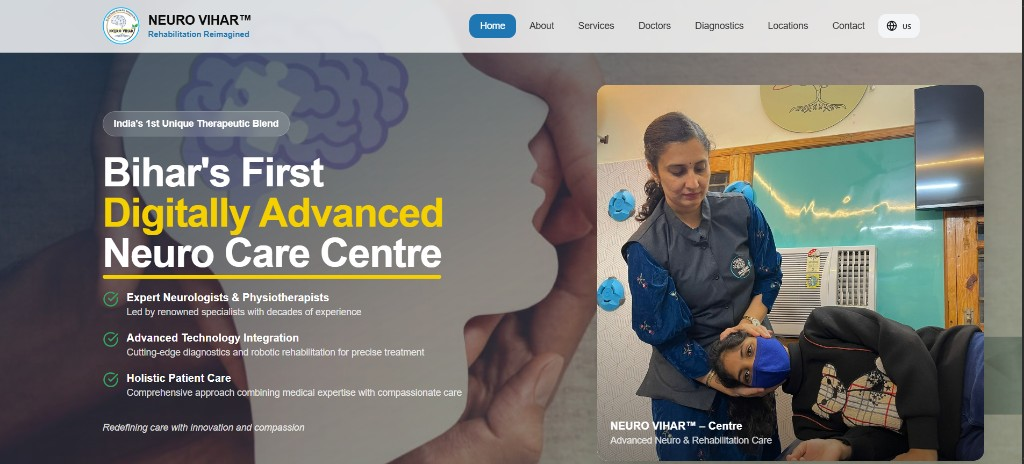
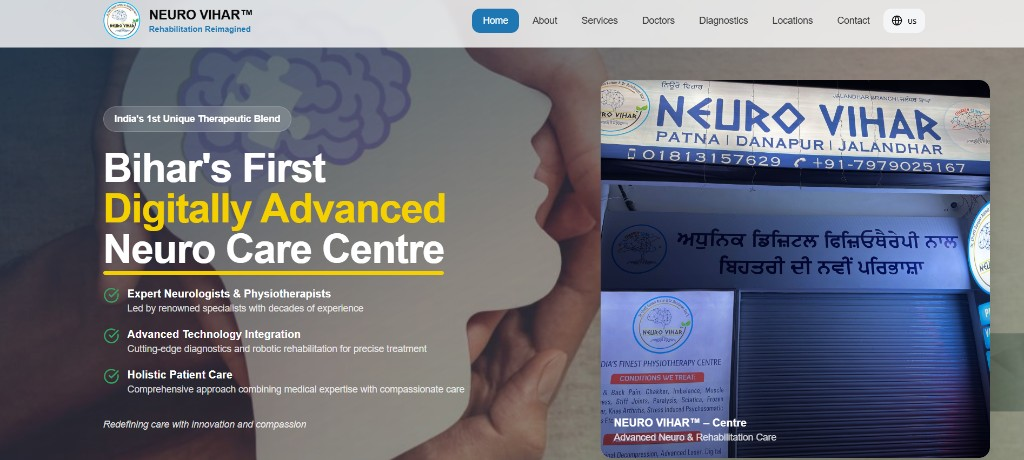
test

diff --git a/src/pages/Experience.tsx b/src/pages/Experience.tsx
@@ -8,10 +8,67 @@ import {
 import { Card } from "@/components/ui/card";
 import { Badge } from "@/components/ui/badge";
 
+type KeyProject = {
+  name: string;
+  description: string;
+  impact: string;
+  url?: string;
+};
+
 const Experience = () => {
-  const experiences = [
+  const experiences: Array<{
+    id: number;
+    company: string;
+    role: string;
+    location: string;
+    period: string;
+    type: string;
+    description: string;
+    projects: KeyProject[];
+    technologies: string[];
+    achievements: string[];
+  }> = [
     {
       id: 1,
+      company: "Travelodeal Holidays",
+      role: "Software Engineer",
+      location: "India",
+      period: "Oct 15, 2025 - Present",
+      type: "Current",
+      description:
+        "Building and evolving cloud-hosted travel and holiday products end to end: performant frontends, scalable APIs, and reliable deployments across AWS and modern DevOps workflows.",
+      projects: [
+        {
+          name: "Travelodeal UK (travel & holidays platform)",
+          description:
+            "UK travel-domain product: holiday search, offers, and customer journeys for a live production site serving the travel market.",
+          impact:
+            "Core product development on a high-visibility travel platform with full-stack and cloud delivery",
+          url: "https://www.travelodeal.co.uk/",
+        },
+      ],
+      technologies: [
+        "React",
+        "Next.js",
+        "Node.js",
+        "Express.js",
+        "TypeScript",
+        "REST APIs",
+        "AWS",
+        "Cloud",
+        "DevOps",
+        "Docker",
+        "CI/CD",
+        "Git",
+      ],
+      achievements: [
+        "Delivered features across full stack using React, Next.js, Node, and Express",
+        "Operated and improved cloud workloads on AWS with DevOps and automation focus",
+        "Collaborated on scalable architecture, APIs, and production reliability",
+      ],
+    },
+    {
+      id: 2,
       company: "200Ok Solutions",
       role: "Full Stack Developer",
       location: "Ahmedabad, India",
@@ -36,7 +93,7 @@ const Experience = () => {
       ],
     },
     {
-      id: 2,
+      id: 3,
       company: "AHA Solar Technologies Limited",
       role: "Software Development Engineer",
       location: "Ahmedabad, India",
@@ -79,7 +136,7 @@ const Experience = () => {
       ],
     },
     {
-      id: 3,
+      id: 4,
       company: "Scale AI",
       role: "AI Trainer",
       location: "San Francisco, CA (Remote)",
@@ -220,6 +277,17 @@ const Experience = () => {
                                   <div className="text-xs text-portfolio-primary font-medium">
                                     Impact: {project.impact}
                                   </div>
+                                  {project.url && (
+                                    <a
+                                      href={project.url}
+                                      target="_blank"
+                                      rel="noopener noreferrer"
+                                      className="mt-2 inline-flex items-center gap-1 text-xs font-medium text-portfolio-primary hover:underline"
+                                    >
+                                      <ExternalLink className="h-3 w-3 shrink-0" />
+                                      {project.url.replace(/^https?:\/\//, "")}
+                                    </a>
+                                  )}
                                 </div>
                               </div>
                             </div>

diff --git a/src/pages/Home.tsx b/src/pages/Home.tsx
@@ -2,6 +2,7 @@ import { useState } from "react";
 import {
   ArrowRight,
   Download,
+  ExternalLink,
   Github,
   Linkedin,
   Mail,
@@ -114,6 +115,64 @@ const Home = () => {
           </h2>
           <div className="max-w-4xl mx-auto">
             <div className="space-y-8">
+              {/* Travelodeal Holidays */}
+              <Card className="p-8">
+                <div className="flex flex-col md:flex-row md:items-center md:justify-between mb-4">
+                  <div>
+                    <h3 className="text-xl font-semibold">
+                      Software Engineer
+                    </h3>
+                    <p className="text-portfolio-primary font-medium">
+                      Travelodeal Holidays
+                    </p>
+                  </div>
+                  <div className="text-sm text-muted-foreground">
+                    Oct 15, 2025 - Present
+                  </div>
+                </div>
+                <p className="text-muted-foreground mb-4">
+                  Building travel and holiday products with React, Next.js,
+                  Node.js, and Express on AWS—shipping features reliably with
+                  cloud infrastructure and DevOps practices. Primary product:{" "}
+                  <a
+                    href="https://www.travelodeal.co.uk/"
+                    target="_blank"
+                    rel="noopener noreferrer"
+                    className="font-medium text-portfolio-primary hover:underline inline-flex items-center gap-1"
+                  >
+                    travelodeal.co.uk
+                    <ExternalLink className="h-3.5 w-3.5 shrink-0" />
+                  </a>
+                  .
+                </p>
+                <div className="grid grid-cols-1 md:grid-cols-3 gap-4 text-sm">
+                  <div>
+                    <div className="font-semibold text-portfolio-primary">
+                      React · Next.js
+                    </div>
+                    <div className="text-muted-foreground">
+                      Frontend & SSR
+                    </div>
+                  </div>
+                  <div>
+                    <div className="font-semibold text-portfolio-primary">
+                      Node · Express
+                    </div>
+                    <div className="text-muted-foreground">
+                      APIs & services
+                    </div>
+                  </div>
+                  <div>
+                    <div className="font-semibold text-portfolio-primary">
+                      AWS · DevOps
+                    </div>
+                    <div className="text-muted-foreground">
+                      Cloud & delivery
+                    </div>
+                  </div>
+                </div>
+              </Card>
+
               {/* 200Ok Solutions */}
               <Card className="p-8">
                 <div className="flex flex-col md:flex-row md:items-center md:justify-between mb-4">

diff --git a/src/pages/Projects.tsx b/src/pages/Projects.tsx
@@ -17,6 +17,30 @@ interface Project {
 
 const projects: Project[] = [
   {
+    title: "Travelodeal UK",
+    category: "Travel",
+    url: "https://www.travelodeal.co.uk/",
+    tech: [
+      "Next.js",
+      "React.js",
+      "Node.js",
+      "Express.js",
+      "TypeScript",
+      "REST APIs",
+      "AWS",
+      "DevOps",
+    ],
+    description:
+      "Travel-domain product for the UK market—holiday discovery, offers, and booking-oriented flows. Work spans the full stack and cloud delivery for a live production travel platform.",
+    features: [
+      "Travel & holiday-focused customer journeys",
+      "Modern React / Next.js frontend with scalable APIs",
+      "Cloud-hosted deployment and DevOps practices",
+      "Performance-oriented delivery for a public travel site",
+      "Integration with travel-domain content and services",
+    ],
+  },
+  {
     title: "Punya Autowheels Platform",
     category: "Automobile",
     previewImage: "/projects/punya.png",

diff --git a/src/components/HeroSection.tsx b/src/components/HeroSection.tsx
@@ -6,7 +6,7 @@ import { HeroTypewriterHeadline } from "@/components/HeroTypewriterHeadline";
 import { cn } from "@/lib/utils";
 
 const CV_URL =
-  "https://drive.google.com/uc?export=download&id=1BIn7QQLYIkzfYVt0HlvMFQfCLTSxyfn9";
+  "https://drive.google.com/uc?export=download&id=14GSpMlwrVeJwUTsOtCt60HLvgSkqAYJj";
 
 const FALLBACK_MS = 12_000;
 
